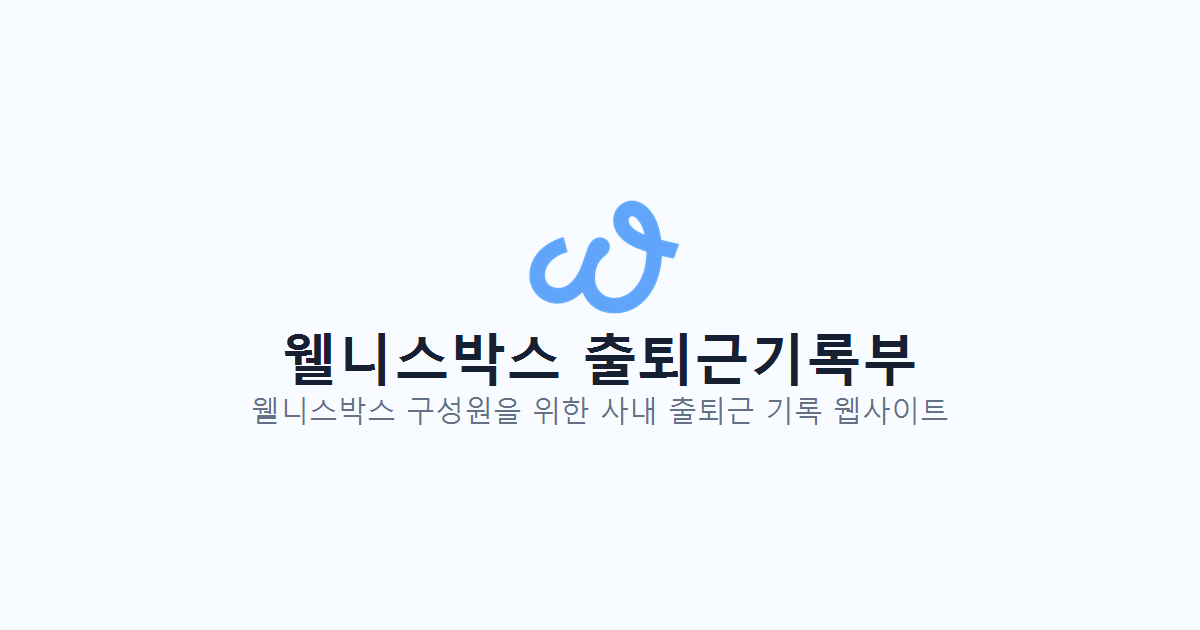
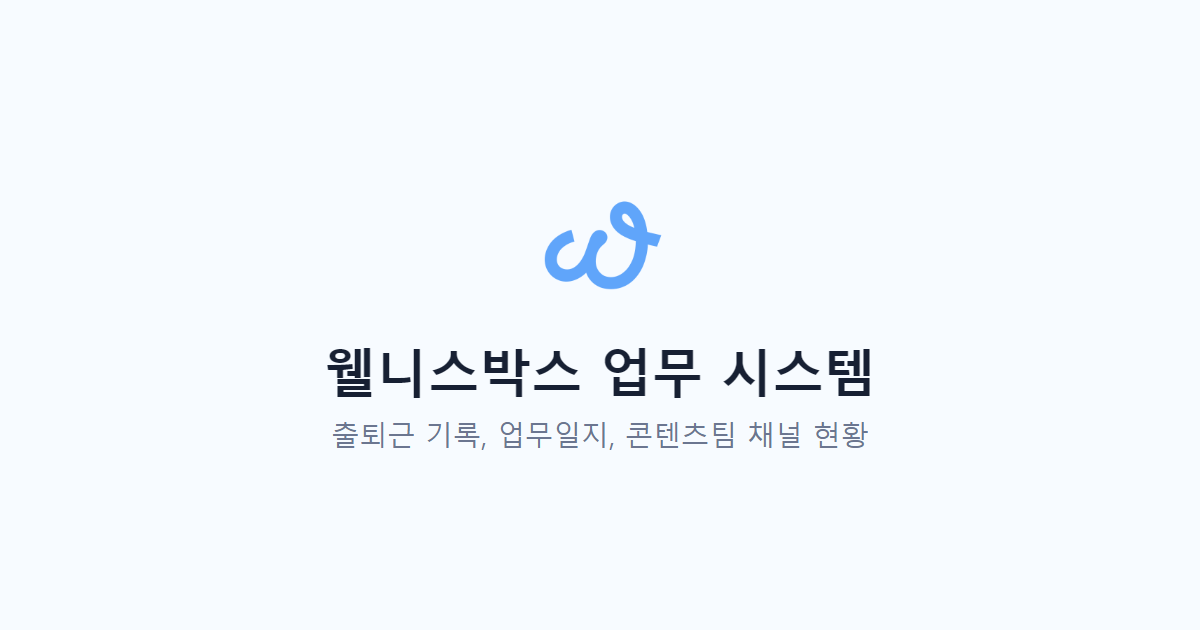
이름을 웰니스박스 업무 시스템으로: 화면 제목, 앱 이름, 로그인과 관리자 머리글, 공유 화면 제목, 도움받기 첫 문장, 링크 미리보기 이미지
주소, Vercel 프로젝트, 데이터, "출근하기", "출퇴근 기록" 같은 기능 이름은 그대로. 검색어에는 옛 이름도 남김.
캘린더(public/content)는 캘린더 세션 몫이라 손대지 않음.

Changed region(s): [[0.2158, 0.3016, 0.8017, 0.7238]]

diff --git a/app/layout.tsx b/app/layout.tsx
@@ -10,13 +10,14 @@ const naverSiteVerification = process.env.NEXT_PUBLIC_NAVER_SITE_VERIFICATION;
 export const metadata: Metadata = {
   metadataBase: new URL(siteUrl),
   title: {
-    default: "웰니스박스 출퇴근기록부",
-    template: "%s | 웰니스박스 출퇴근기록부",
+    default: "웰니스박스 업무 시스템",
+    template: "%s | 웰니스박스 업무 시스템",
   },
-  description: "웰니스박스 구성원을 위한 사내 출퇴근 기록 웹사이트입니다.",
-  applicationName: "웰니스박스 출퇴근기록부",
+  description: "웰니스박스 구성원의 출퇴근 기록, 업무일지, 콘텐츠팀 채널 현황을 보는 업무 시스템입니다.",
+  applicationName: "웰니스박스 업무 시스템",
   keywords: [
     "웰니스박스",
+    "웰니스박스 업무 시스템",
     "웰니스박스 출퇴근",
     "웰니스박스 출퇴근기록부",
     "출퇴근 체크",
@@ -32,22 +33,22 @@ export const metadata: Metadata = {
     type: "website",
     locale: "ko_KR",
     url: "/",
-    siteName: "웰니스박스 출퇴근기록부",
-    title: "웰니스박스 출퇴근기록부",
-    description: "웰니스박스 구성원을 위한 사내 출퇴근 기록 웹사이트입니다.",
+    siteName: "웰니스박스 업무 시스템",
+    title: "웰니스박스 업무 시스템",
+    description: "웰니스박스 구성원의 출퇴근 기록, 업무일지, 콘텐츠팀 채널 현황을 보는 업무 시스템입니다.",
     images: [
       {
         url: "/og-image.png",
         width: 1200,
         height: 630,
-        alt: "웰니스박스 출퇴근기록부",
+        alt: "웰니스박스 업무 시스템",
       },
     ],
   },
   twitter: {
     card: "summary_large_image",
-    title: "웰니스박스 출퇴근기록부",
-    description: "웰니스박스 구성원을 위한 사내 출퇴근 기록 웹사이트입니다.",
+    title: "웰니스박스 업무 시스템",
+    description: "웰니스박스 구성원의 출퇴근 기록, 업무일지, 콘텐츠팀 채널 현황을 보는 업무 시스템입니다.",
     images: ["/og-image.png"],
   },
   robots: {

diff --git a/components/content/ContentShell.tsx b/components/content/ContentShell.tsx
@@ -24,7 +24,7 @@ export function ContentShell<T>({
       <div className="content-bg" aria-hidden="true" />
       <nav className="content-nav">
         <Link className="content-back" href="/">
-          출퇴근기록부로
+          업무 시스템으로
         </Link>
         <div className="content-tabs">
           {TABS.map((tab) => (
@@ -48,7 +48,7 @@ export function ContentShell<T>({
           {state.kind === "loading" ? <p>노션에서 불러오는 중이에요.</p> : null}
           {state.kind === "login" ? (
             <p>
-              출퇴근기록부에 로그인한 뒤에 볼 수 있어요. <Link href="/">로그인하러 가기</Link>
+              업무 시스템에 로그인한 뒤에 볼 수 있어요. <Link href="/">로그인하러 가기</Link>
             </p>
           ) : null}
           {state.kind === "error" ? <p>불러오지 못했어요. {state.message}</p> : null}

diff --git a/app/s/[shareId]/page.tsx b/app/s/[shareId]/page.tsx
@@ -8,7 +8,7 @@ export const runtime = "nodejs";
 export const dynamic = "force-dynamic";
 
 const siteUrl = process.env.NEXT_PUBLIC_SITE_URL ?? "https://wellnessbox-attendance.vercel.app";
-const siteName = "웰니스박스 출퇴근기록부";
+const siteName = "웰니스박스 업무 시스템";
 
 type SharePageProps = {
   params: Promise<{ shareId: string }>;
@@ -53,8 +53,8 @@ export async function generateMetadata({ params }: SharePageProps): Promise<Meta
     }
 
     return getShareMetadata({
-      title: `${ownerName}님의 출퇴근기록부`,
-      description: "공유된 웰니스박스 출퇴근기록부 화면입니다.",
+      title: `${ownerName}님의 업무 기록`,
+      description: "공유된 웰니스박스 업무 시스템 화면입니다.",
       url,
     });
   } catch {

diff --git a/lib/content-schedule.ts b/lib/content-schedule.ts
@@ -2,7 +2,7 @@ import { unstable_cache } from "next/cache";
 import { addDays, kstToday, propDate, propPeople, propText, queryNotionDatabase } from "@/lib/notion";
 
 /**
- * 노션 왼쪽 「일정」 캘린더를 출퇴근기록부 달력(/content-board/schedule)으로 보여준다.
+ * 노션 왼쪽 「일정」 캘린더를 업무 시스템 달력(/content-board/schedule)으로 보여준다.
  * 노션 「일정 보기」(3c83b1f9b9ae80449f37d2739608fec6)는 이 DB를 보여주는 보기라 데이터 원본은 하나다
  * (collection://5ca2d15f-9b3e-4bee-8620-74beb77a0b0f). 데이터는 옮기지 않고 5분에 한 번 읽기만 한다.
  */

diff --git a/app/manifest.ts b/app/manifest.ts
@@ -2,9 +2,9 @@ import type { MetadataRoute } from "next";
 
 export default function manifest(): MetadataRoute.Manifest {
   return {
-    name: "웰니스박스 출퇴근기록부",
-    short_name: "출퇴근기록부",
-    description: "웰니스박스 구성원을 위한 사내 출퇴근 기록 웹사이트",
+    name: "웰니스박스 업무 시스템",
+    short_name: "업무 시스템",
+    description: "웰니스박스 구성원의 출퇴근 기록, 업무일지, 콘텐츠팀 채널 현황을 보는 업무 시스템",
     start_url: "/",
     scope: "/",
     display: "standalone",

diff --git a/components/admin/AdminApp.tsx b/components/admin/AdminApp.tsx
@@ -484,7 +484,7 @@ export function AdminApp() {
             width={160}
           />
           <p className="text-sm font-semibold text-muted">관리자</p>
-          <h1 className="text-2xl font-bold text-ink">웰니스박스 출퇴근기록부</h1>
+          <h1 className="text-2xl font-bold text-ink">웰니스박스 업무 시스템</h1>
         </div>
         <div className="flex items-center gap-3 text-xs">
           <a className="text-muted underline-offset-4 hover:text-ink hover:underline" href="/">

diff --git a/components/LoginPanel.tsx b/components/LoginPanel.tsx
@@ -107,7 +107,7 @@ export function LoginPanel({
             src="/brand/wellnessbox-logo.png"
             width={160}
           />
-          <h1 className="text-xl font-bold text-ink">웰니스박스 출퇴근기록부</h1>
+          <h1 className="text-xl font-bold text-ink">웰니스박스 업무 시스템</h1>
           <p className="mt-1 text-sm text-muted">
             처음 한 번만 확인하면, 이 컴퓨터에서는 편하게 기록할 수 있어요.
           </p>

diff --git a/app/content-board/content.css b/app/content-board/content.css
@@ -1,5 +1,5 @@
 /*
- * 콘텐츠팀 채널 현황, 일정 달력. 출퇴근기록부 밝은 메이플 판(maple-quest.css)과 같은 창, 줄, 설명창을 쓴다.
+ * 콘텐츠팀 채널 현황, 일정 달력. 업무 시스템 밝은 메이플 판(maple-quest.css)과 같은 창, 줄, 설명창을 쓴다.
  * 배경은 움직이지 않는 하늘색만 깐다. 안쪽 여백은 위아래, 좌우를 같게 맞춘다.
  */
 .content-page {

diff --git a/components/employee/HelpLaunch.tsx b/components/employee/HelpLaunch.tsx
@@ -13,7 +13,7 @@ const NOTE_LIMIT = 1200;
 export function buildHelpPrompt(text: string, note?: string) {
   const trimmedNote = note ? (note.length > NOTE_LIMIT ? `${note.slice(0, NOTE_LIMIT)}…` : note) : "";
   return [
-    "출퇴근기록부 할 일을 같이 해 줘.",
+    "업무 시스템 할 일을 같이 해 줘.",
     "",
     `할 일: ${text.split("\n")[0]}`,
     trimmedNote ? `\n설명:\n${trimmedNote}` : "",

diff --git a/components/content/ContentEntryLinks.tsx b/components/content/ContentEntryLinks.tsx
@@ -1,6 +1,6 @@
 import Link from "next/link";
 
-/** 출퇴근기록부 오늘 할 일 칸 머리줄에 붙는 콘텐츠팀 화면 입구 */
+/** 업무 시스템 오늘 할 일 칸 머리줄에 붙는 콘텐츠팀 화면 입구 */
 export function ContentEntryLinks({ alone }: { alone: boolean }) {
   return (
     <span style={{ marginLeft: alone ? "auto" : 12, display: "inline-flex", gap: 12 }}>

diff --git a/lib/notion.ts b/lib/notion.ts
@@ -1,6 +1,6 @@
 /**
  * 노션 API 읽기 전용 도우미. 콘텐츠팀 현황판과 일정 달력이 쓴다.
- * 토큰은 NOTION_TOKEN (출퇴근기록부 .env 와 Vercel 환경변수). 쓰기 호출은 만들지 않는다.
+ * 토큰은 NOTION_TOKEN (업무 시스템 attendance .env 와 Vercel 환경변수). 쓰기 호출은 만들지 않는다.
  */
 const NOTION_VERSION = "2022-06-28";
 
